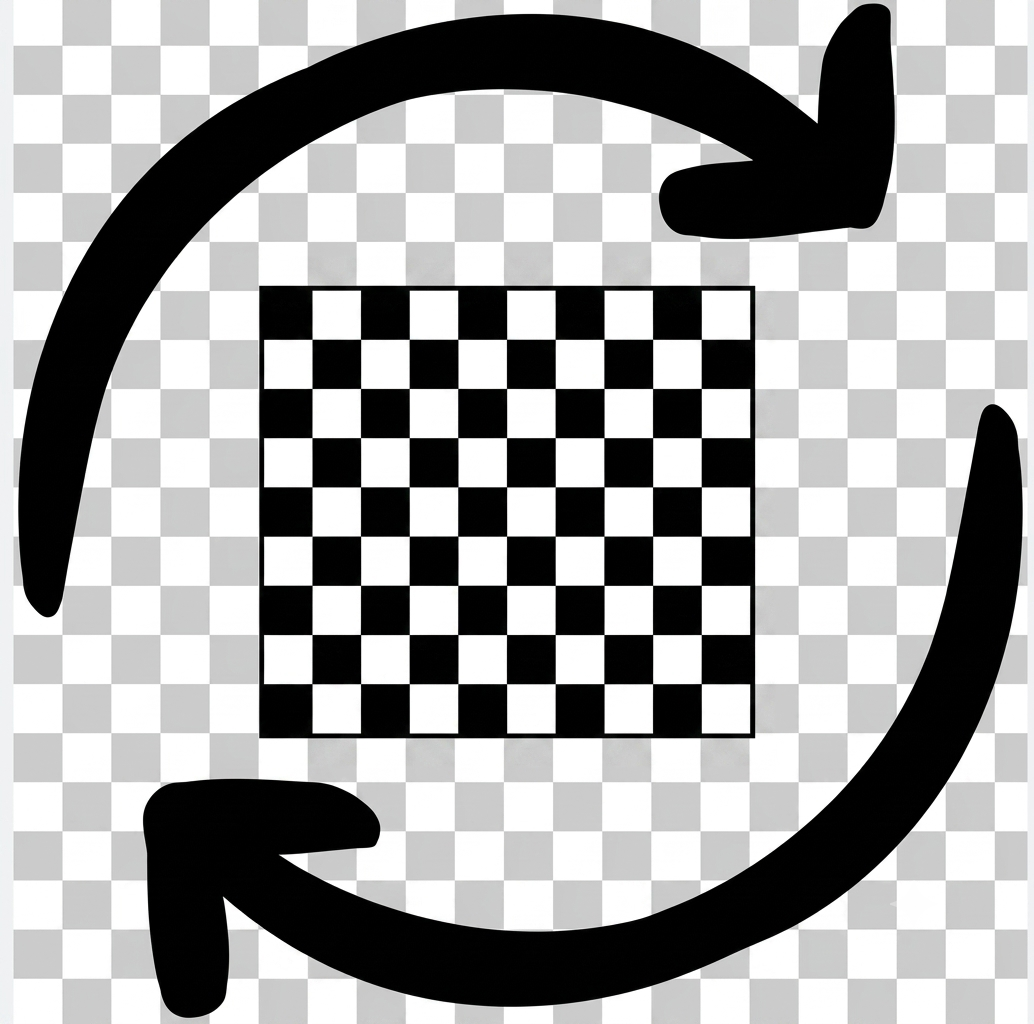
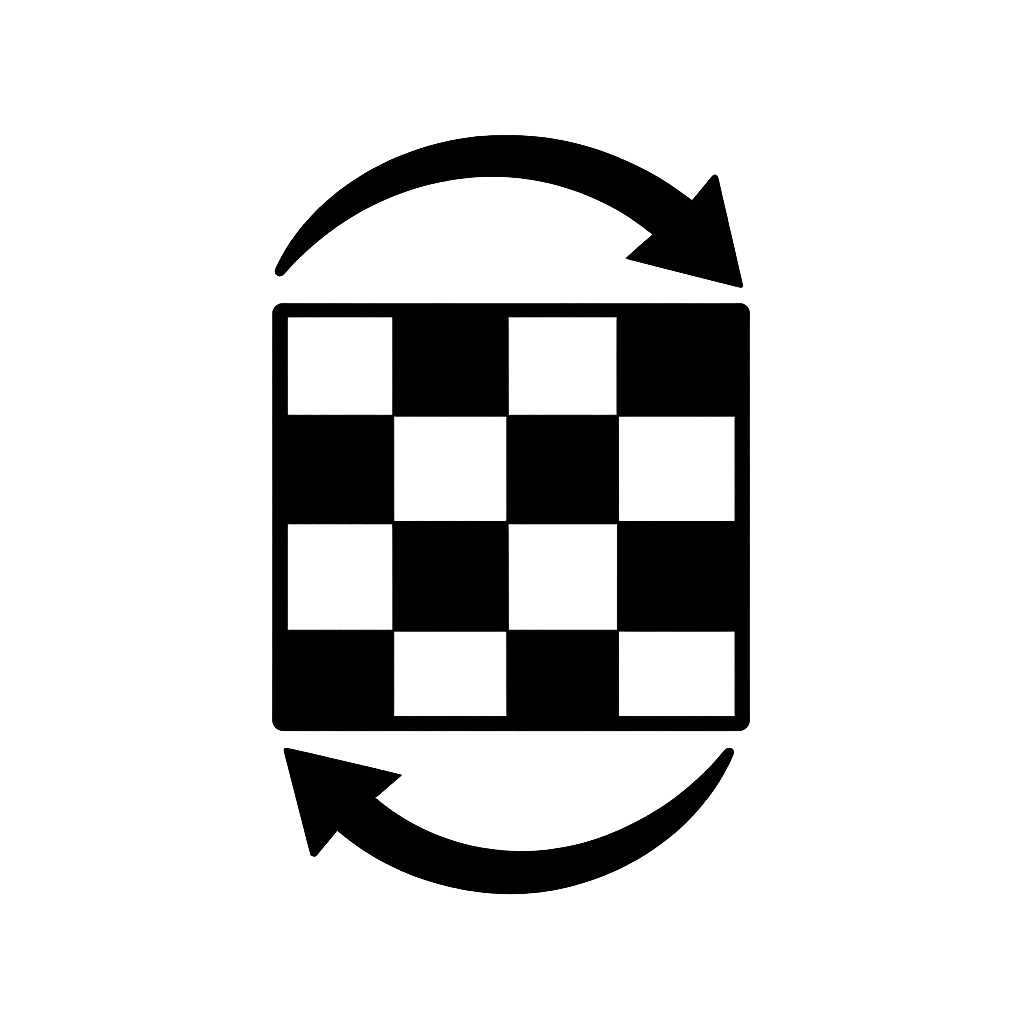
updates to editor tab

diff --git a/app/public/styles/board.css b/app/public/styles/board.css
@@ -111,19 +111,18 @@ div[class*="spare-pieces-"] {
 
 .edit-tool-btn {
     align-items: center;
-    background: #2b2927;
     border: 1px solid #3b3b3b;
     border-radius: 4px;
     cursor: pointer;
     display: flex;
     justify-content: center;
     padding: 8px;
-    width: 36px;
+    width: 50px;
 }
 
 .edit-tool-btn img {
-    height: 20px;
-    width: 20px;
+    height: 53px;
+    width: 53x;
 }
 
 .edit-tool-btn.active {
